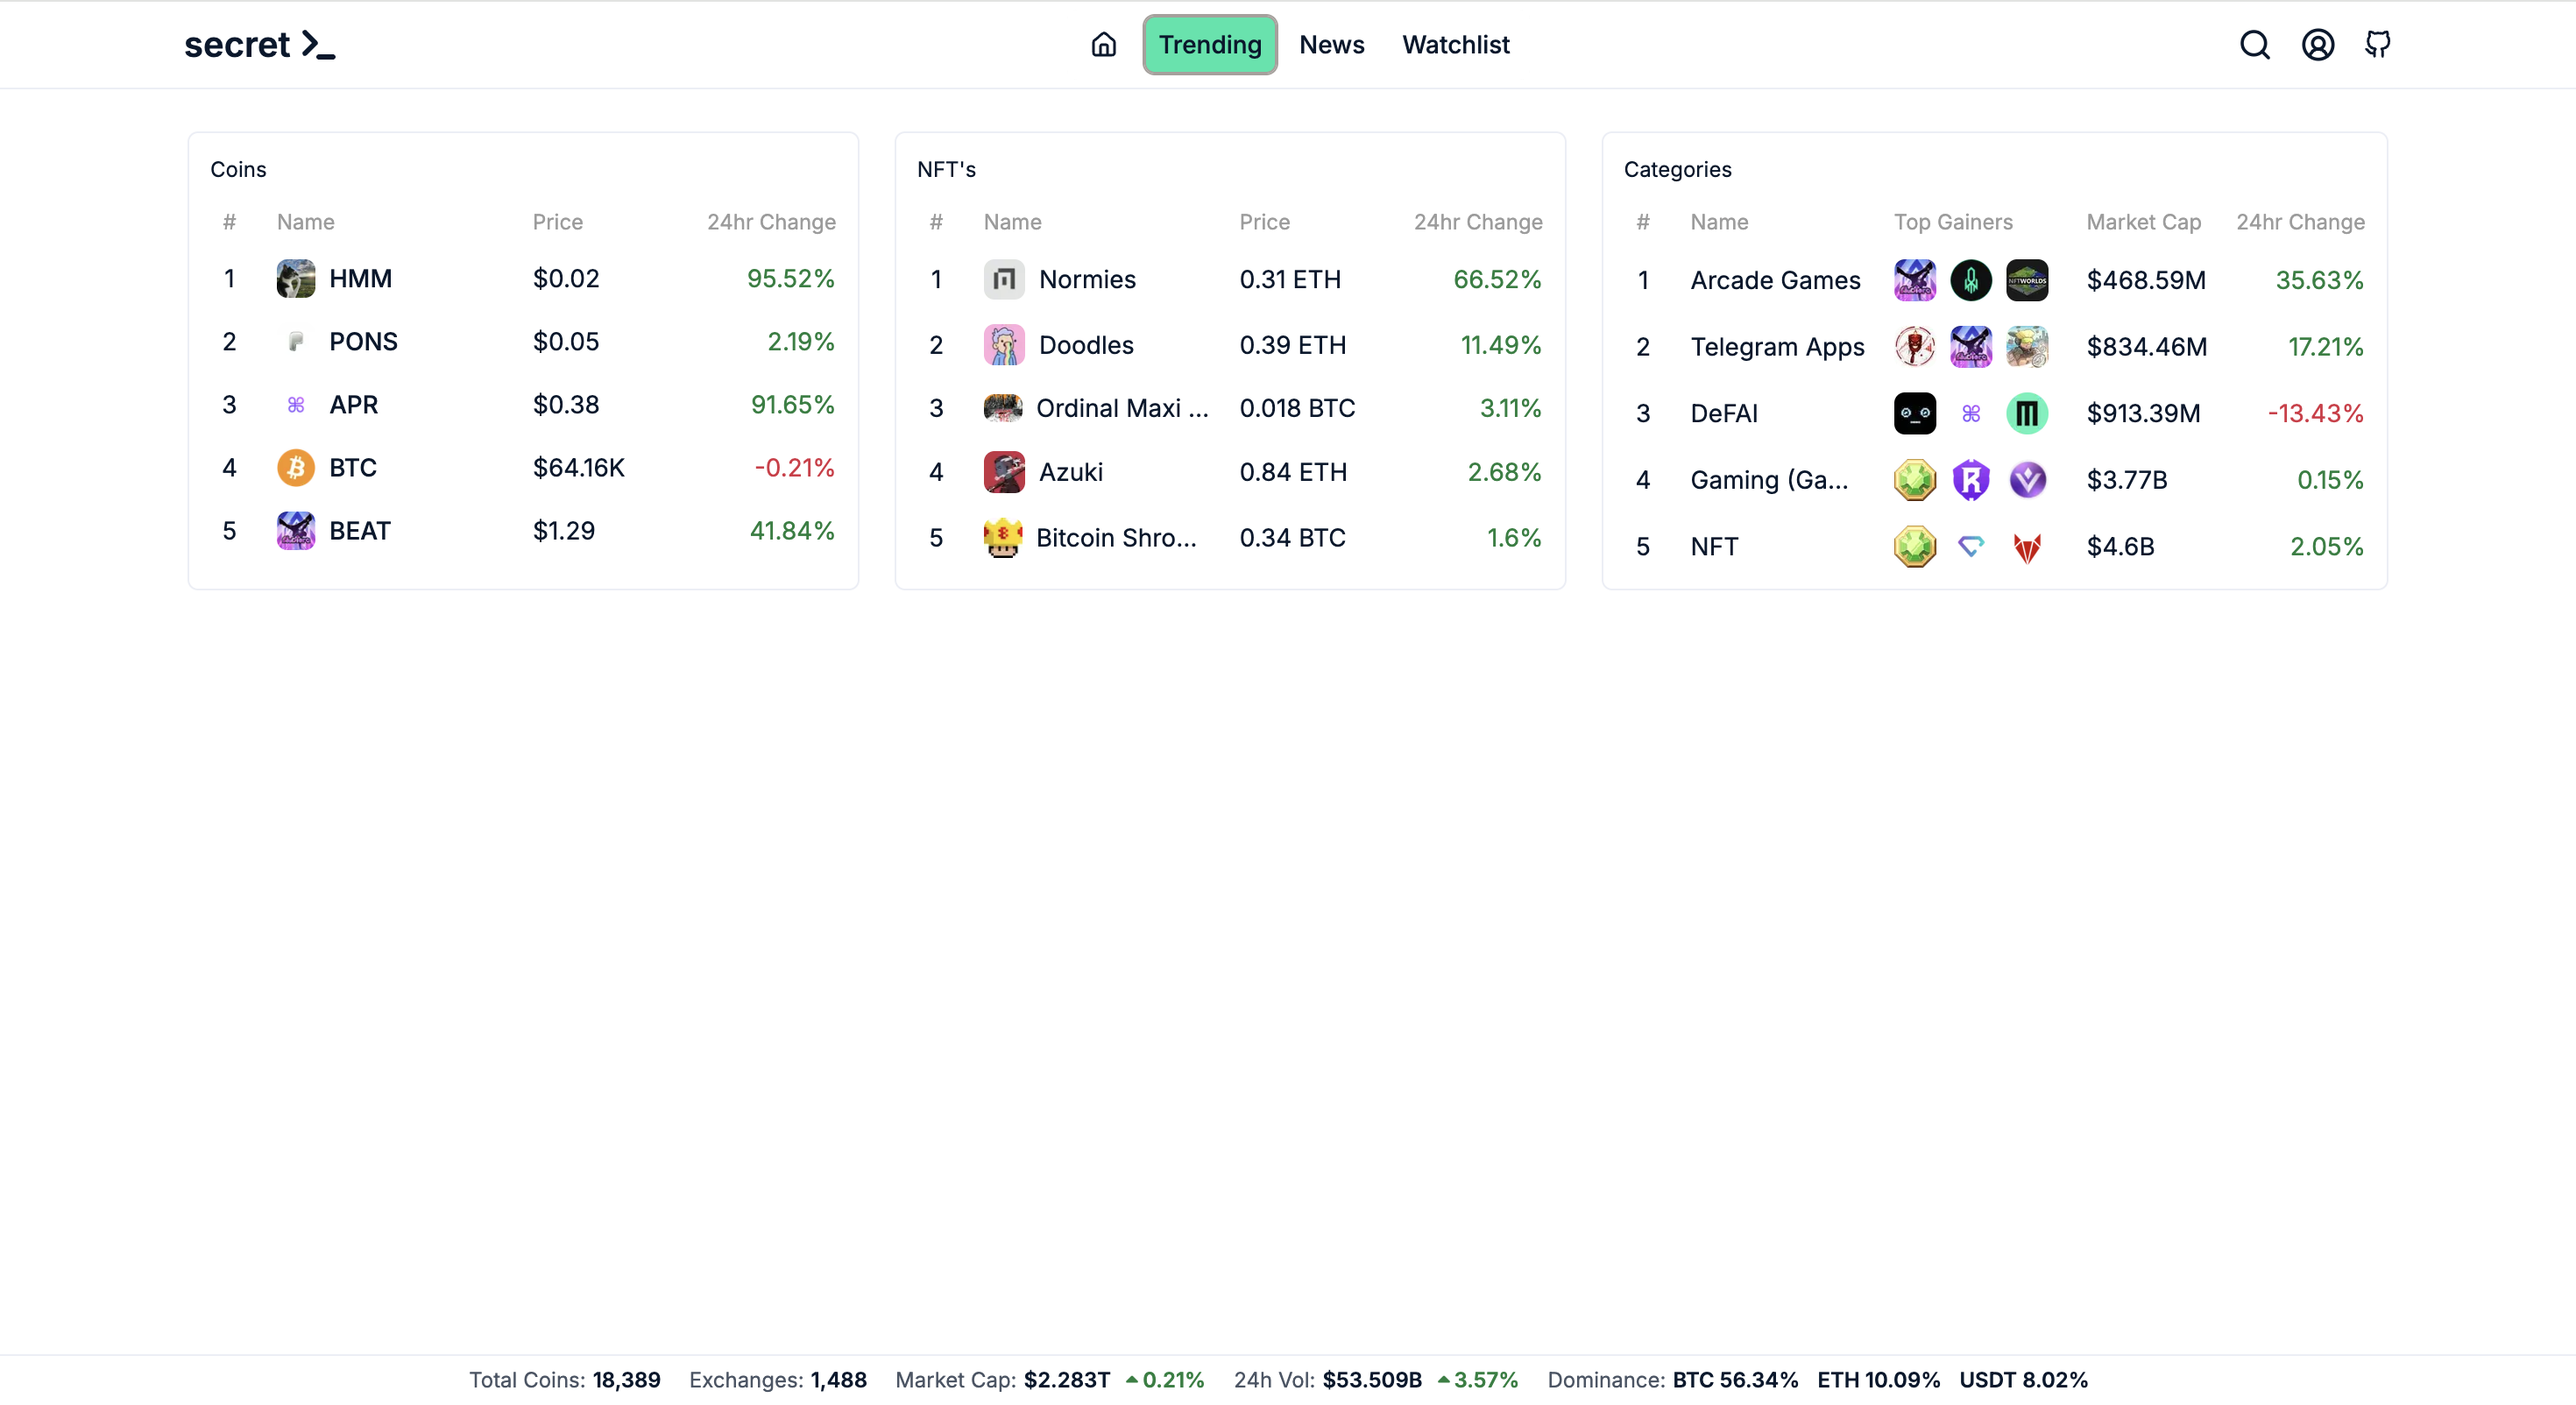
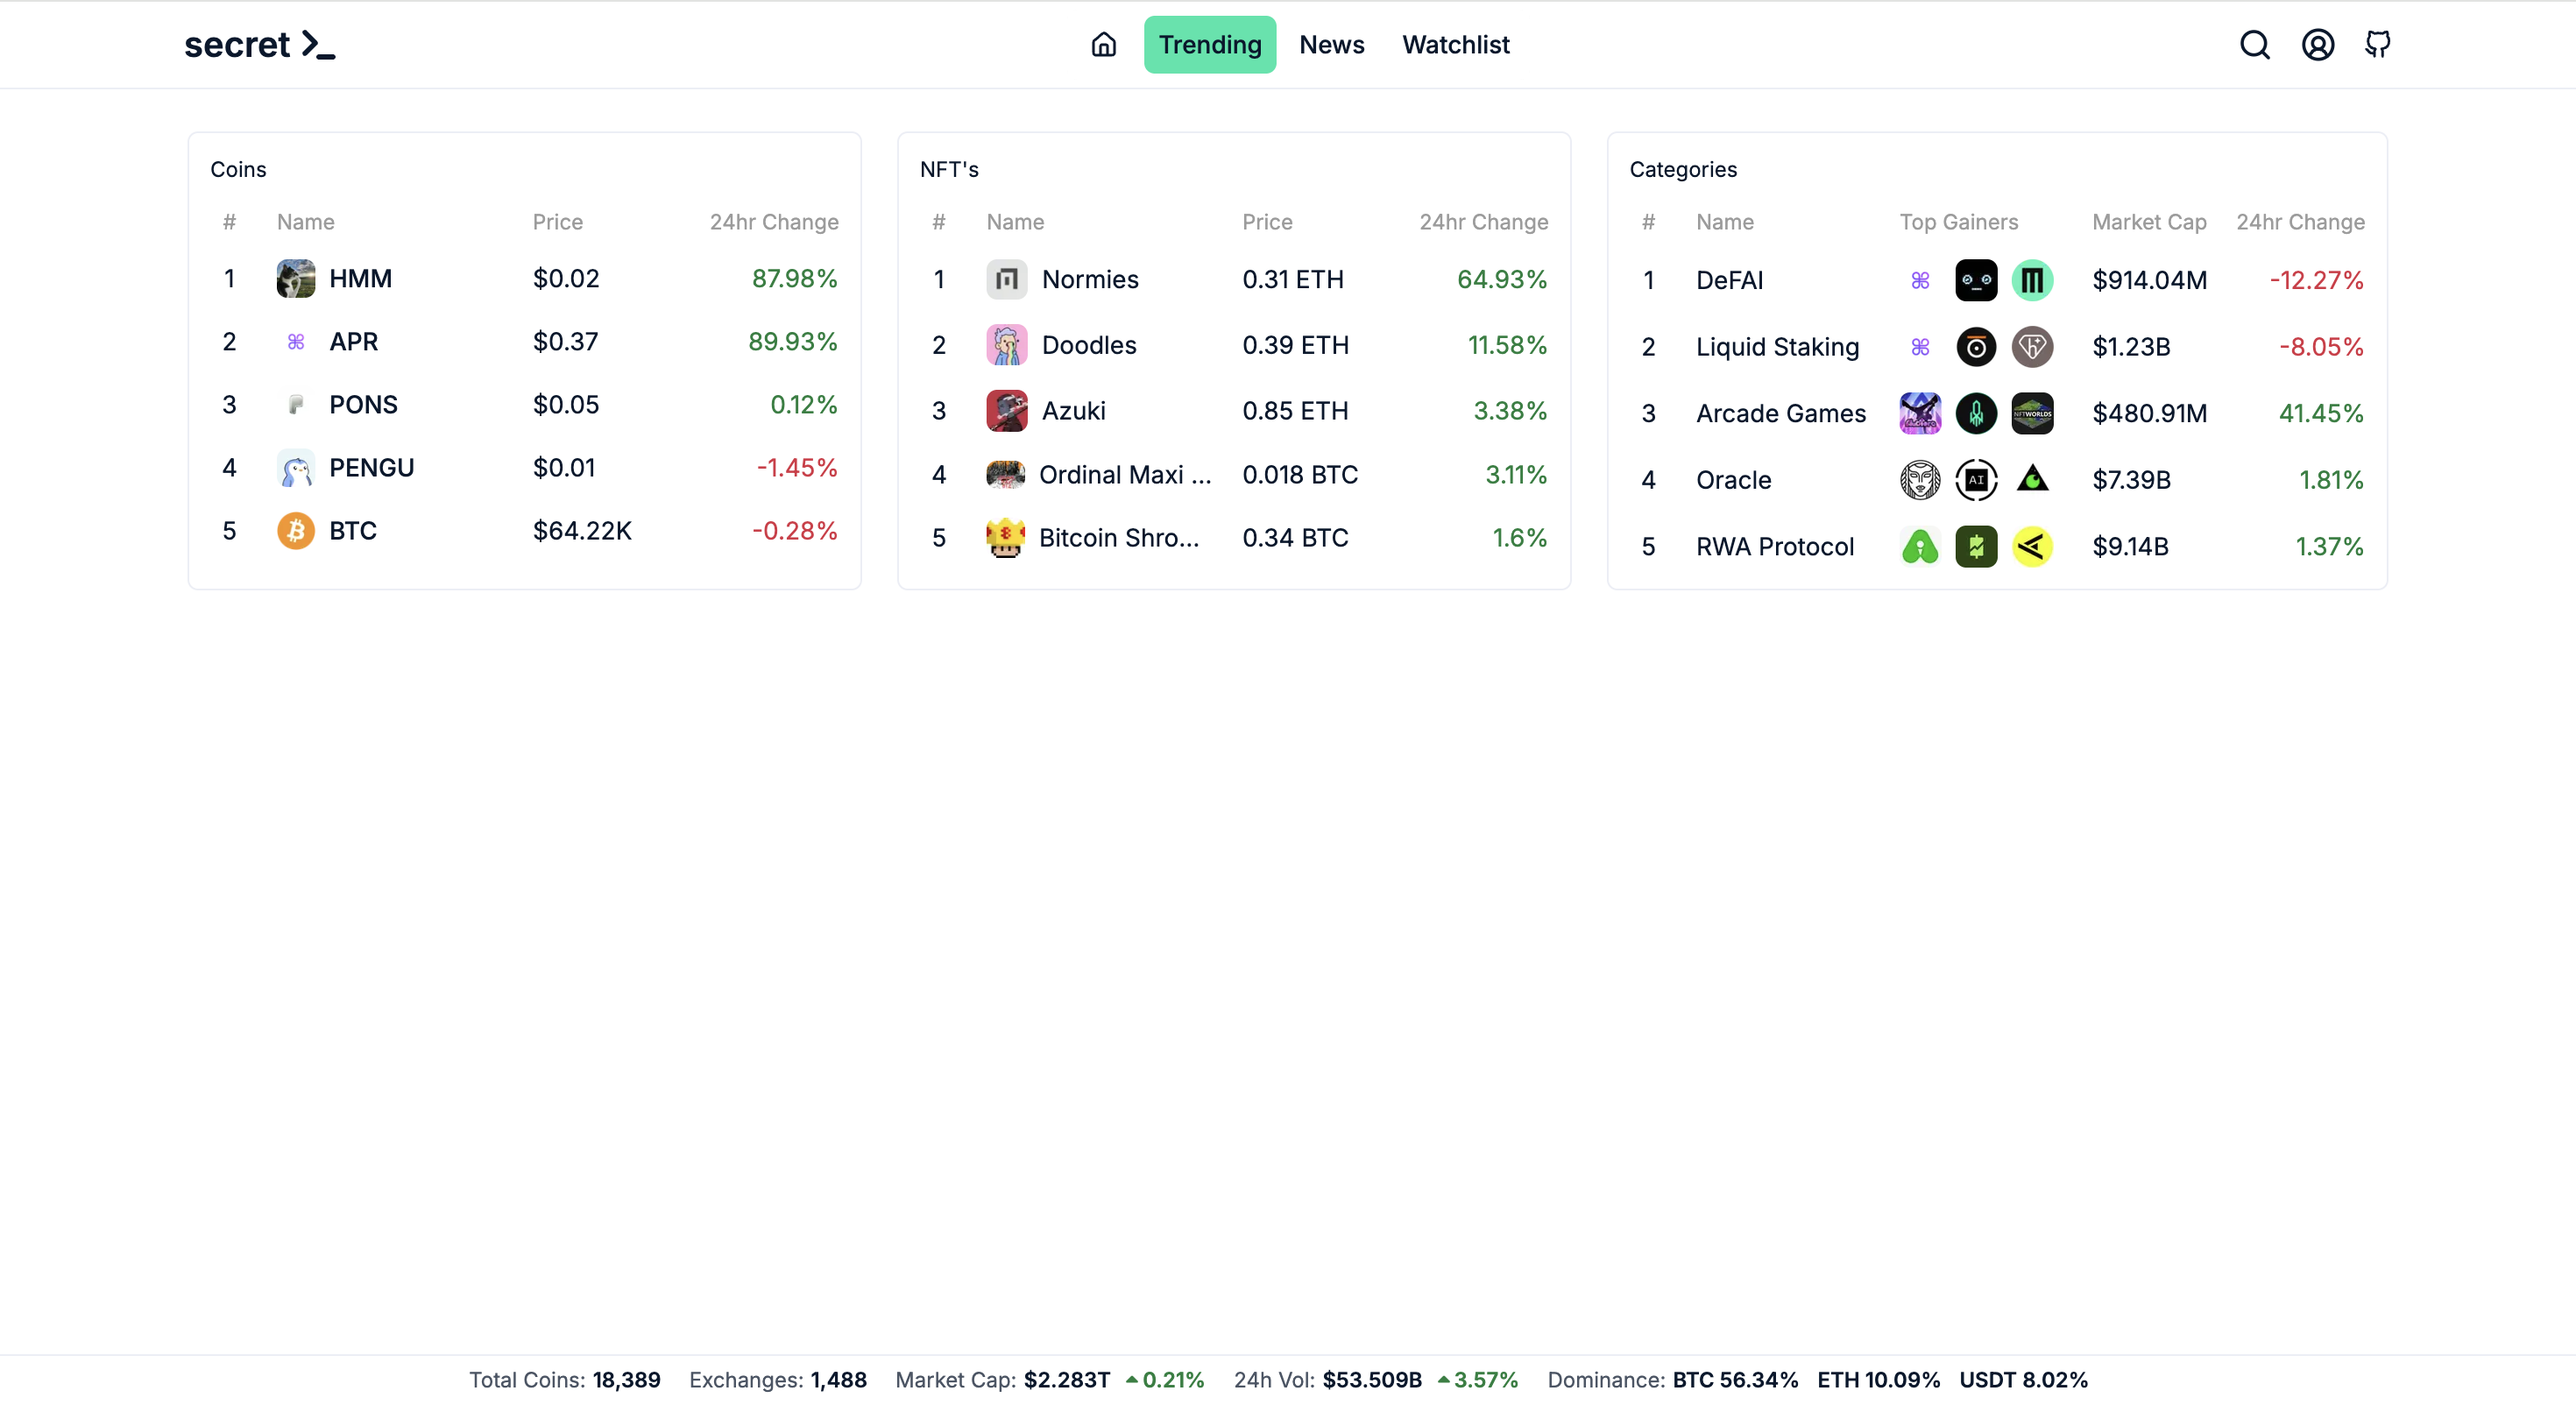
docs: update readme and app screenshot

diff --git a/README.md b/README.md
@@ -25,18 +25,22 @@
     >
 </p>
 
-<p align="center">
-    <img 
-        alt="price, volume, and market cap graphs for various time periods." 
-        src="public/preview/coin-analysis.png" 
-        width="900"
-    >
-</p>
+#### Trending
 
 <p align="center">
     <img 
         alt="trending coins, nfts and categories." 
         src="public/preview/trending.png" 
+        width="900"
+    >
+</p>
+
+#### Coin Analysis
+
+<p align="center">
+    <img 
+        alt="price, volume, and market cap graphs for various time periods." 
+        src="public/preview/coin-analysis.png" 
         width="900"
     >
 </p>
